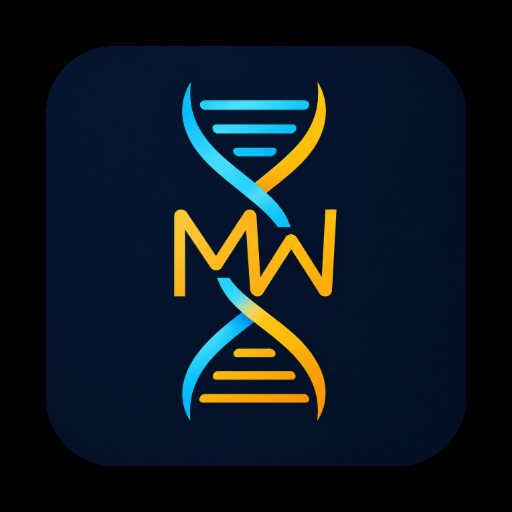
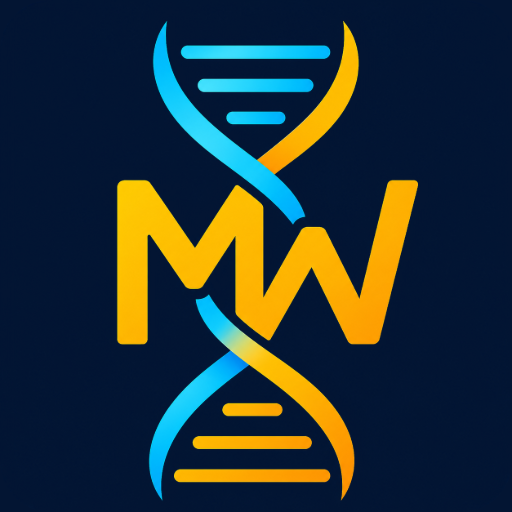
Add files via upload

diff --git a/index.html b/index.html
@@ -4,6 +4,8 @@
 <meta charset="UTF-8" />
 <meta name="viewport" content="width=device-width, initial-scale=1.0" />
 <title>Oligonucleotide MW &amp; Concentration Calculator</title>
+<link rel="icon" type="image/png" href="icons/icon-192.png" />
+<link rel="apple-touch-icon" href="icons/icon-192.png" />
 <link rel="preconnect" href="https://fonts.googleapis.com" />
 <link rel="preconnect" href="https://fonts.gstatic.com" crossorigin />
 <link href="https://fonts.googleapis.com/css2?family=IBM+Plex+Sans:wght@400;500;600;700&family=IBM+Plex+Mono:wght@400;500;600&family=Space+Grotesk:wght@400;500;600;700&family=Newsreader:opsz,wght@6..72,400;6..72,500;6..72,600&family=DM+Sans:wght@400;500;600;700&family=Work+Sans:wght@400;500;600;700&family=Libre+Franklin:wght@400;500;600;700&family=Source+Serif+4:wght@400;500;600;700&family=JetBrains+Mono:wght@400;500;600&family=Space+Mono:wght@400;700&family=Figtree:wght@400;500;600;700&family=Hanken+Grotesk:wght@400;500;600;700&family=Nunito:wght@400;500;600;700&family=Quicksand:wght@400;500;600;700&family=Poppins:wght@400;500;600;700&family=Varela+Round&family=Roboto+Mono:wght@400;500;600&family=Spline+Sans+Mono:wght@400;500;600&family=Red+Hat+Mono:wght@400;500;600&family=Sora:wght@400;500;600;700&display=swap" rel="stylesheet" />

diff --git a/sw.js b/sw.js
@@ -3,7 +3,7 @@
    Supabase (/rest/v1/, /auth/v1/) and any cross-origin request is passthrough
    (network-only) so auth + the Pro catalog are never served stale.
    Bump CACHE on each deploy so updated builds land. */
-var CACHE = 'oligo-mw-v6';
+var CACHE = 'oligo-mw-v8';
 var PRECACHE = [
   './',
   './index.html',